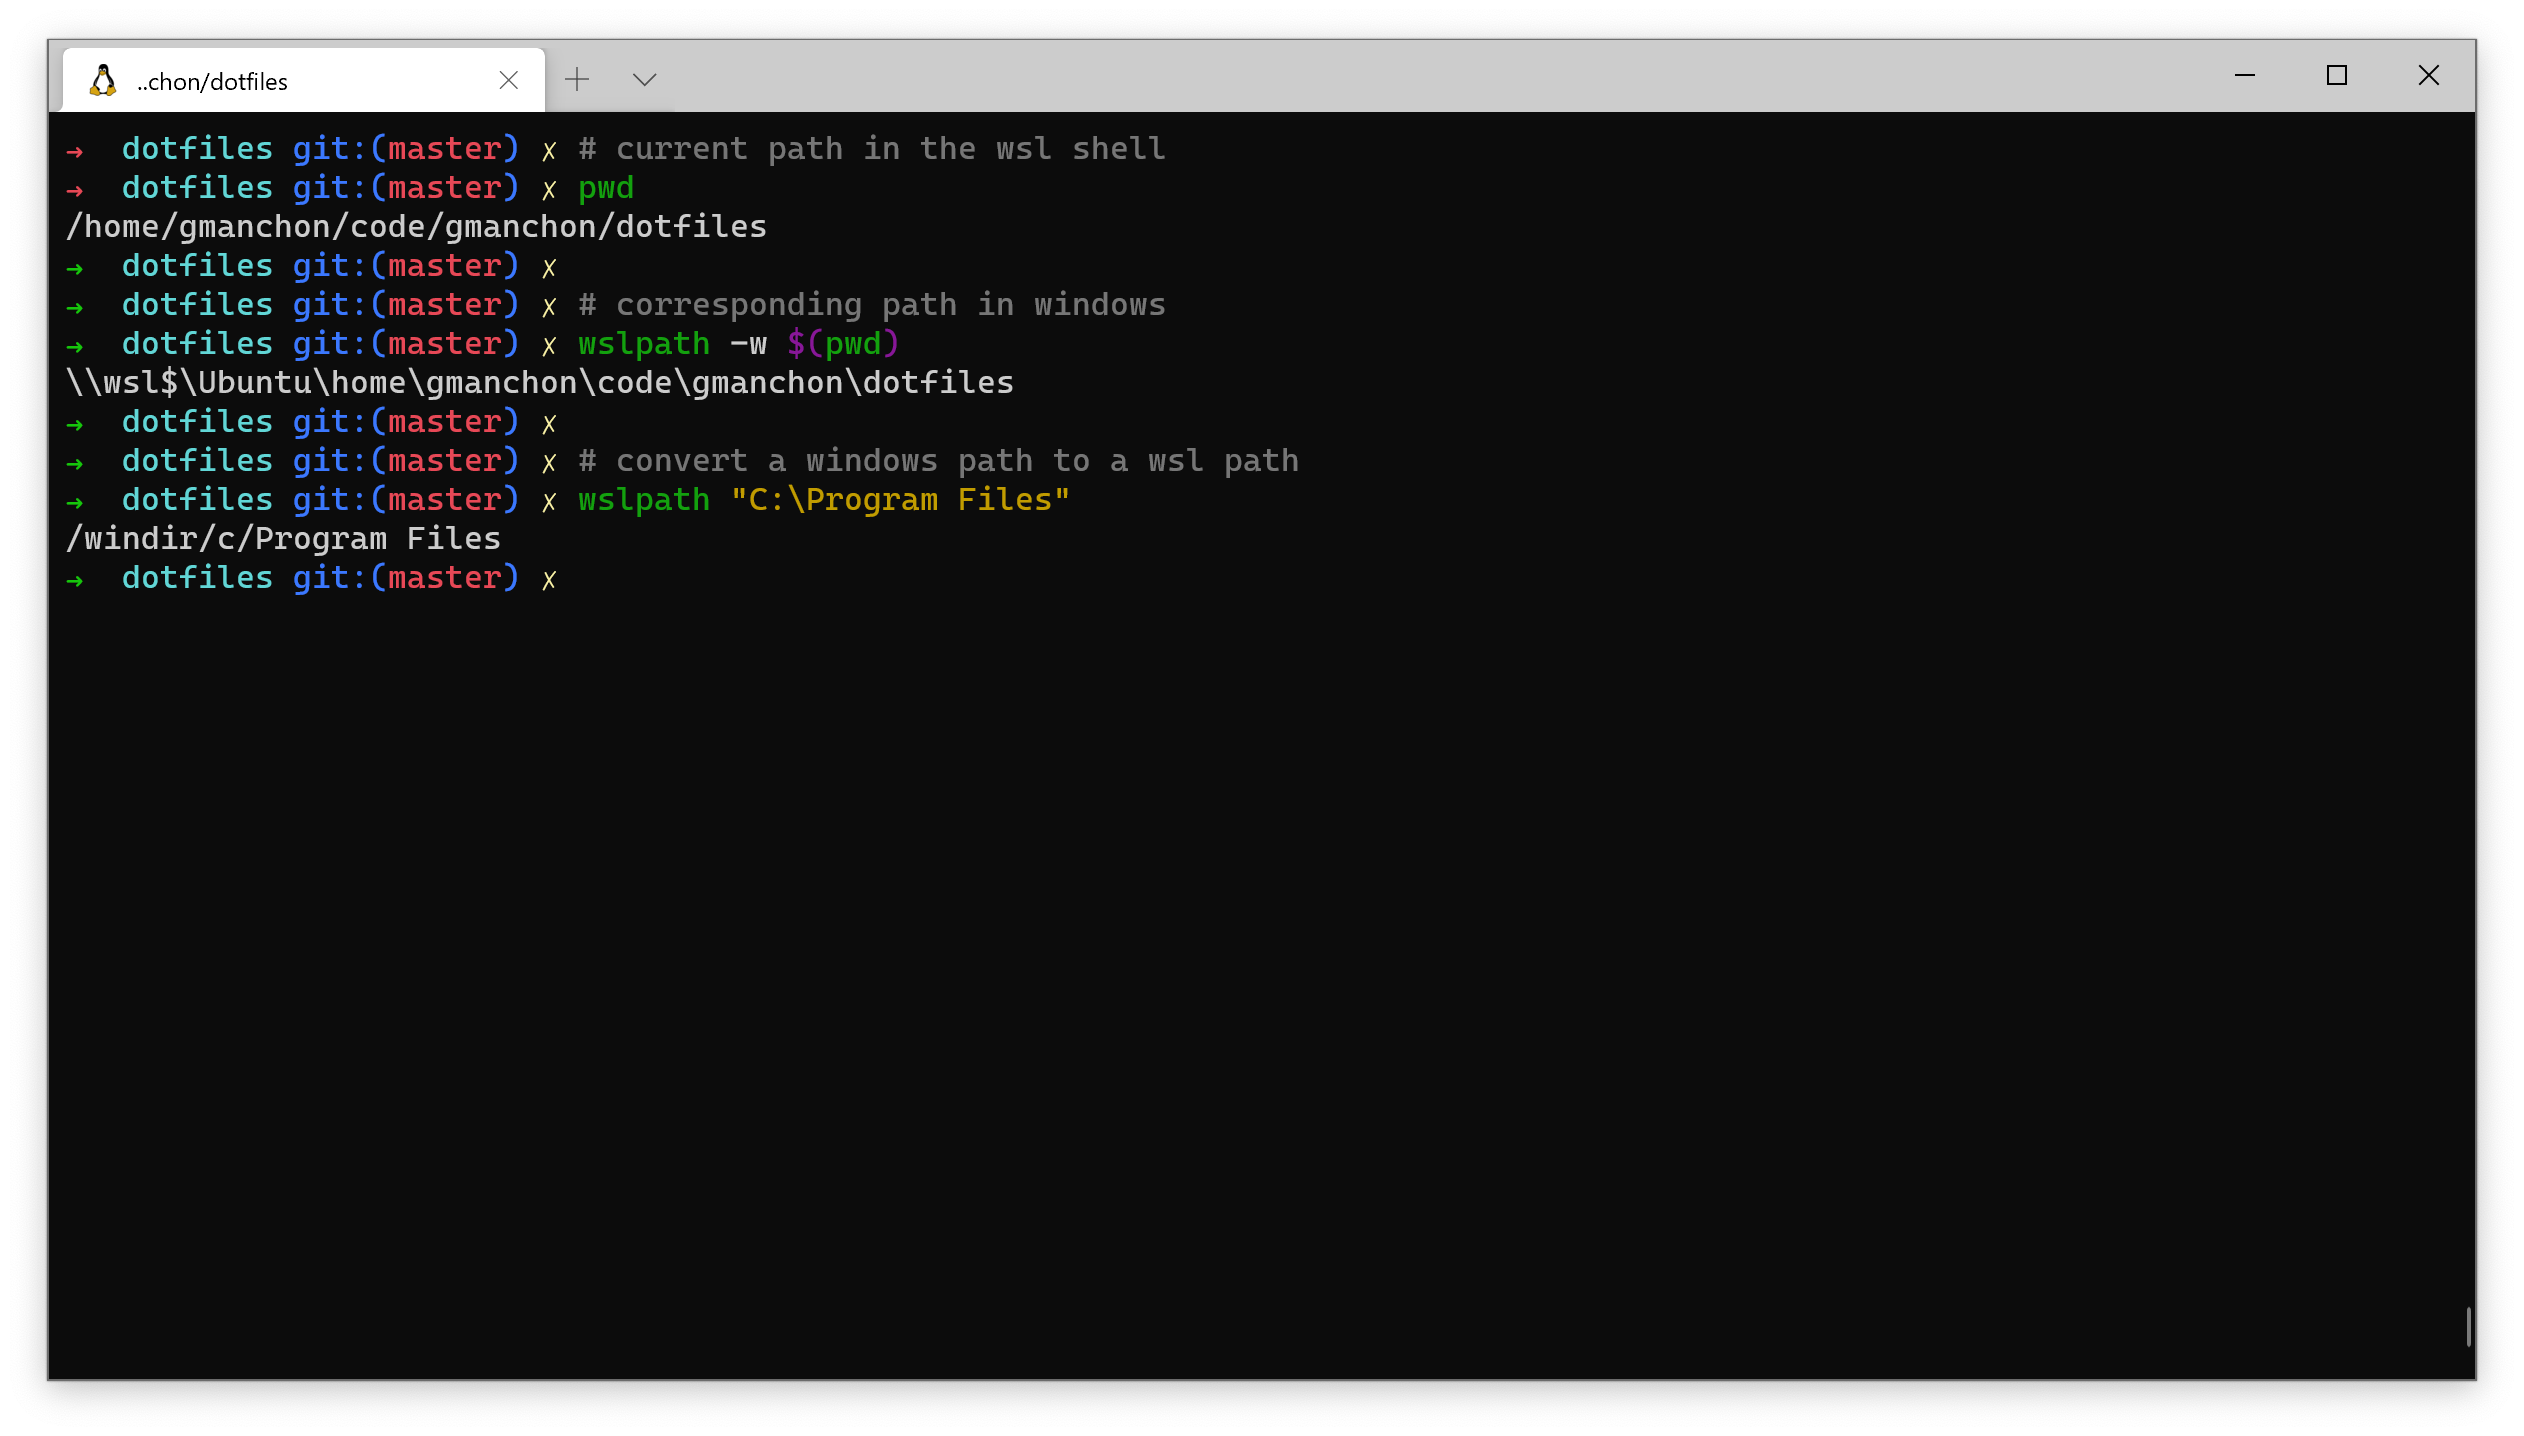
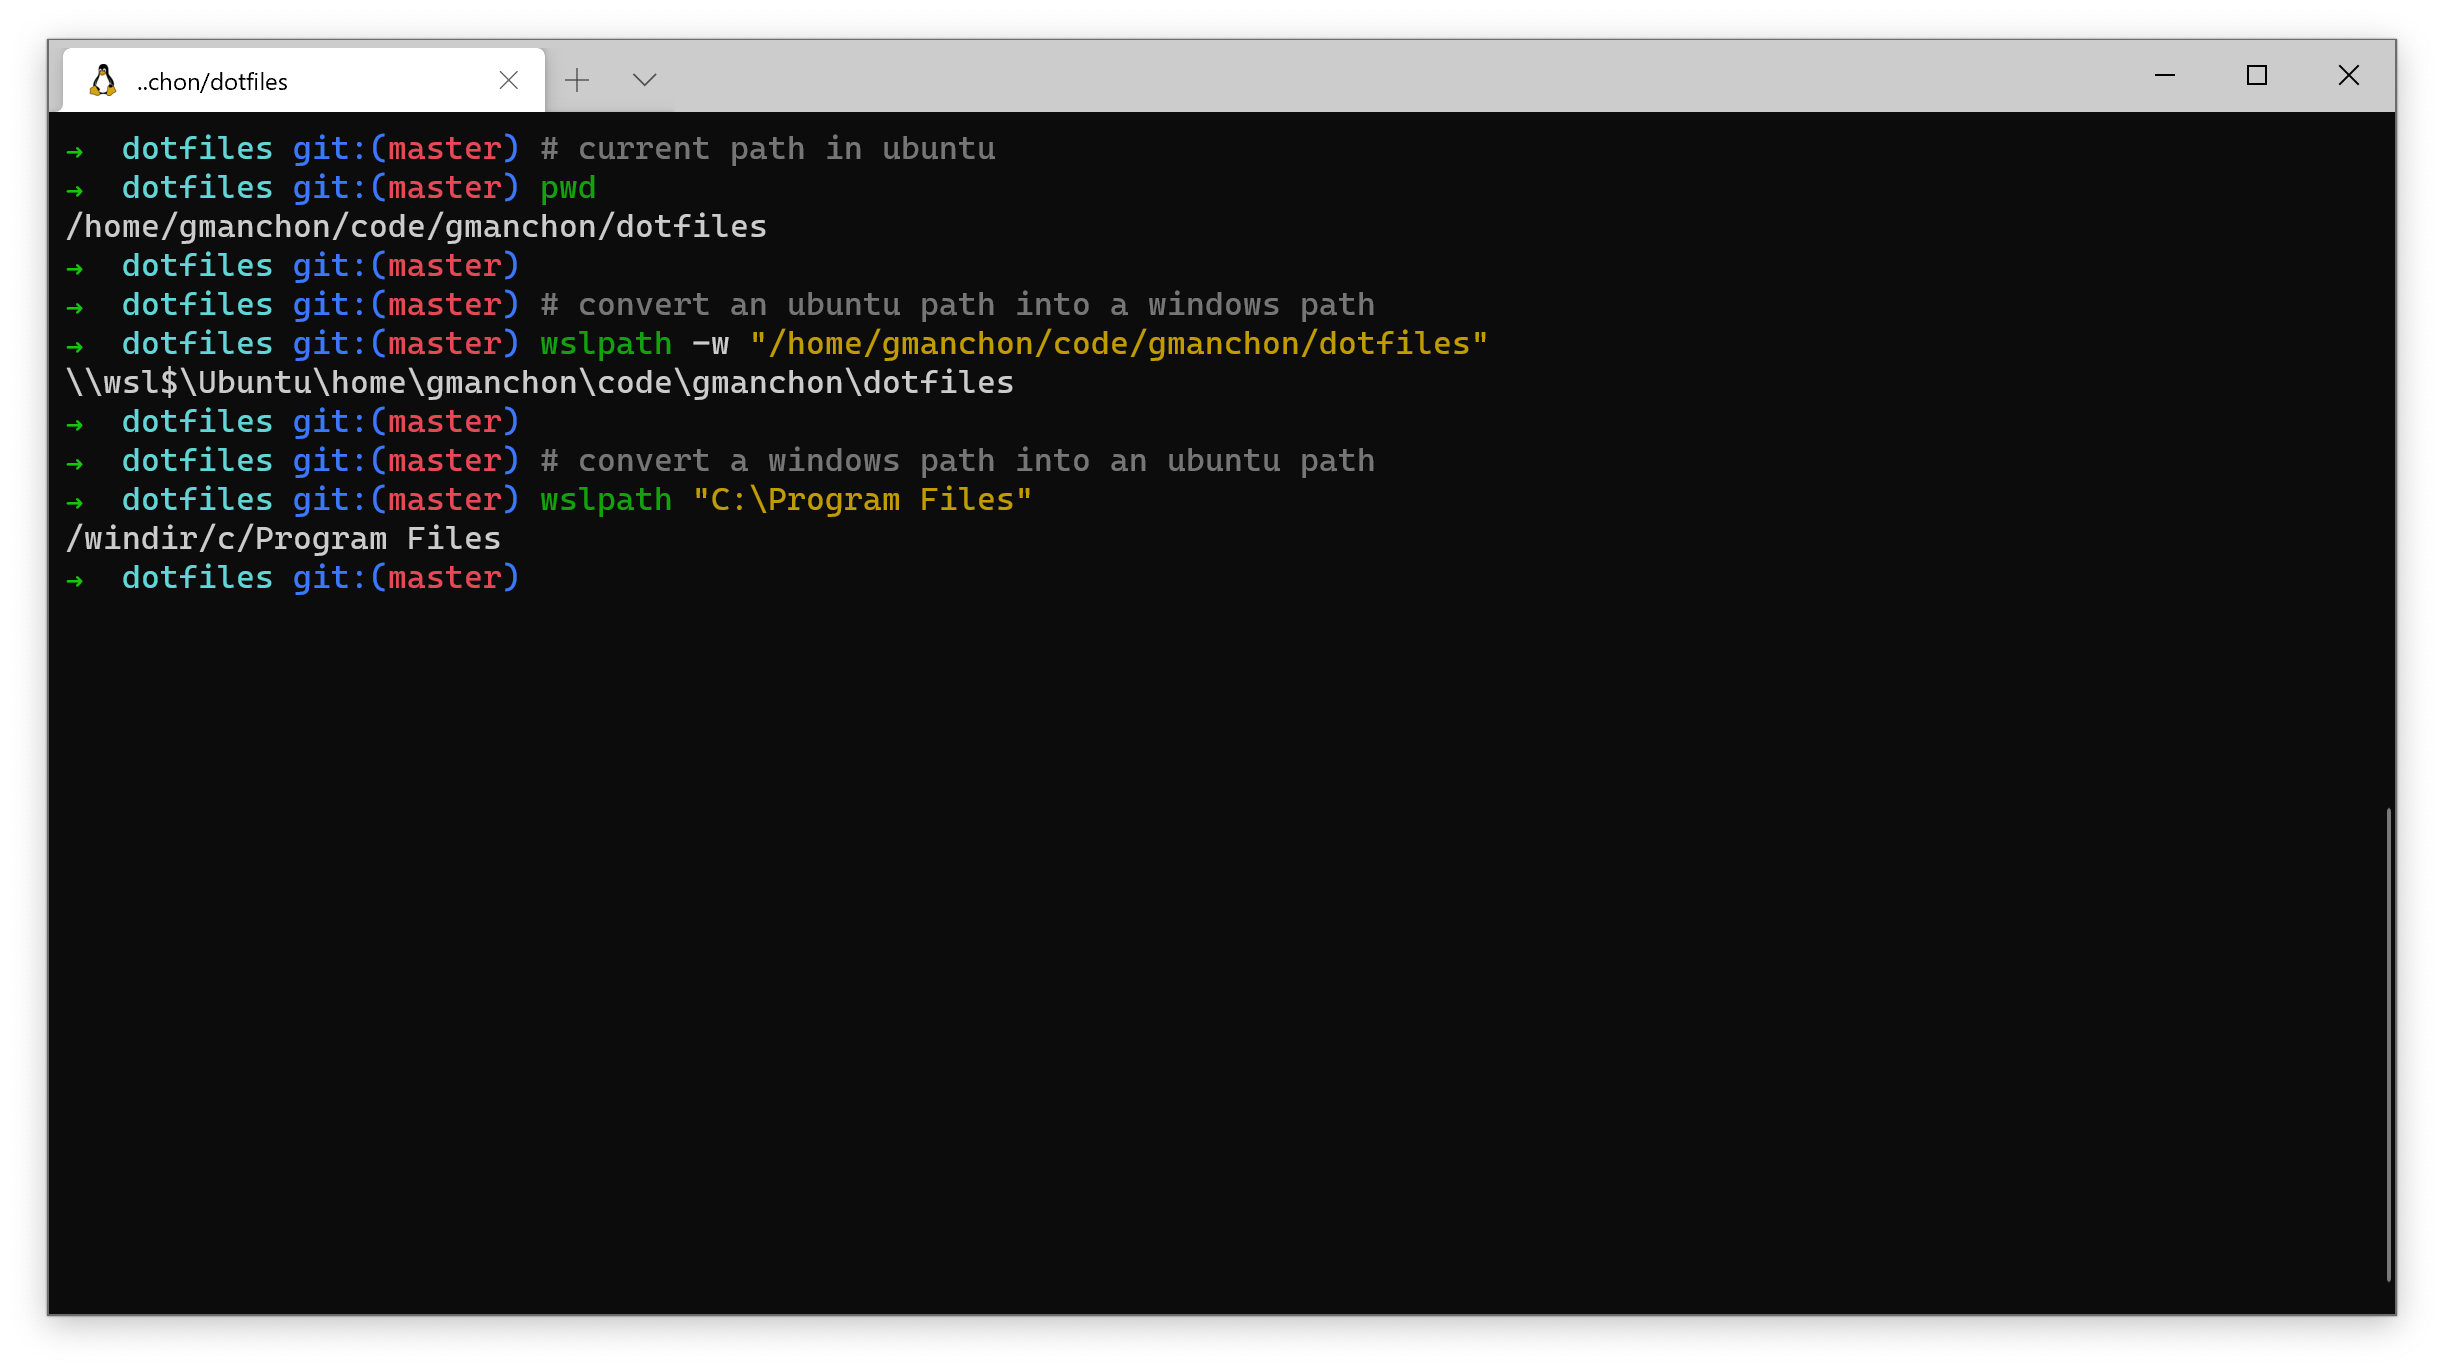
replace mentions to wsl by ubuntu whenever possible, change the images in order to match the status of the student computer by the time of the setup

diff --git a/WINDOWS.md b/WINDOWS.md
@@ -1237,6 +1237,7 @@ In order to do that, we will create shortcuts to Ubuntu directories in the Windo
 
 Here are the steps:
 
+- Open an Ubuntu terminal
 - Open the Windows File Explorer (or use the shortcut Win + E)
 - In the Address Bar, enter `\\wsl$\` (or `\\wsl$\Ubuntu` if it does not work)
 - You now have acces to the Ubuntu file system
@@ -1245,16 +1246,16 @@ Here are the steps:
 
 ![](images/wsl_ubuntu_file_system.gif)
 
-### Open the Windows File Explorer from the WSL shell
+### Open the Windows File Explorer from the Ubuntu terminal
 
-Another option to move files around is to open the Windows **File Explorer** from the WSL shell.
+Another option to move files around is to open the Windows **File Explorer** from the Ubuntu terminal.
 
 In order to do that:
 
-- Open a WSL shell
+- Open an Ubuntu terminal
 - Go to the directory you wish to explore
-- Run the `explorer.exe .` command
-- If you get an input output error message, run `wsl --shutdown` in the Windows PowerShell and reopen a WSL shell
+- Run the `explorer.exe .` command (alternatively, use `wslview .`)
+- If you get an input output error message, run `wsl --shutdown` in a Windows PowerShell and reopen an Ubuntu terminal
 
 ![](images/wsl_explorer.png)
 
@@ -1262,12 +1263,12 @@ In order to do that:
 
 You might want to figure out the exact location of a Windows directory in the Ubuntu file system, or the other way around.
 
-In order to convert a Windows path to and from a WSL path:
+In order to convert a Windows path to and from an Ubuntu path:
 
-- Open a WSL shell
-- Use the `wslpath "C:\Program Files"` command in order to translate a Windows path into a WSL path
-- Use the `wslpath -w "/home"` command in order to translate a WSL path into a Windows path
-- In particular, the `wslpath -w $(pwd)` command returns the Windows path of the current directory in the WSL shell
+- Open an Ubuntu terminal
+- Use the `wslpath "C:\Program Files"` command in order to translate a Windows path into an Ubuntu path
+- Use the `wslpath -w "/home"` command in order to translate an Ubuntu path into a Windows path
+- In particular, the `wslpath -w $(pwd)` command returns the Windows path of the current Ubuntu directory
 
 ![](images/wsl_path.png)
 

diff --git a/_partials/wsl_explorer.md b/_partials/wsl_explorer.md
@@ -11,6 +11,7 @@ In order to do that, we will create shortcuts to Ubuntu directories in the Windo
 
 Here are the steps:
 
+- Open an Ubuntu terminal
 - Open the Windows File Explorer (or use the shortcut Win + E)
 - In the Address Bar, enter `\\wsl$\` (or `\\wsl$\Ubuntu` if it does not work)
 - You now have acces to the Ubuntu file system
@@ -19,16 +20,16 @@ Here are the steps:
 
 ![](images/wsl_ubuntu_file_system.gif)
 
-### Open the Windows File Explorer from the WSL shell
+### Open the Windows File Explorer from the Ubuntu terminal
 
-Another option to move files around is to open the Windows **File Explorer** from the WSL shell.
+Another option to move files around is to open the Windows **File Explorer** from the Ubuntu terminal.
 
 In order to do that:
 
-- Open a WSL shell
+- Open an Ubuntu terminal
 - Go to the directory you wish to explore
-- Run the `explorer.exe .` command
-- If you get an input output error message, run `wsl --shutdown` in the Windows PowerShell and reopen a WSL shell
+- Run the `explorer.exe .` command (alternatively, use `wslview .`)
+- If you get an input output error message, run `wsl --shutdown` in a Windows PowerShell and reopen an Ubuntu terminal
 
 ![](images/wsl_explorer.png)
 
@@ -36,11 +37,11 @@ In order to do that:
 
 You might want to figure out the exact location of a Windows directory in the Ubuntu file system, or the other way around.
 
-In order to convert a Windows path to and from a WSL path:
+In order to convert a Windows path to and from an Ubuntu path:
 
-- Open a WSL shell
-- Use the `wslpath "C:\Program Files"` command in order to translate a Windows path into a WSL path
-- Use the `wslpath -w "/home"` command in order to translate a WSL path into a Windows path
-- In particular, the `wslpath -w $(pwd)` command returns the Windows path of the current directory in the WSL shell
+- Open an Ubuntu terminal
+- Use the `wslpath "C:\Program Files"` command in order to translate a Windows path into an Ubuntu path
+- Use the `wslpath -w "/home"` command in order to translate an Ubuntu path into a Windows path
+- In particular, the `wslpath -w $(pwd)` command returns the Windows path of the current Ubuntu directory
 
 ![](images/wsl_path.png)
